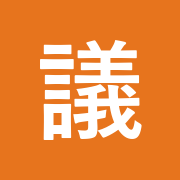
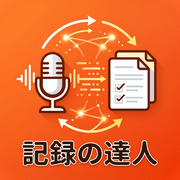
アプリ名を「記録の達人」に変更・アイコンを差し替え

diff --git a/app.js b/app.js
@@ -120,8 +120,8 @@
     var saved = storageGet(API_URL_STORE);
     if (fromLink && validApiUrl(fromLink) && fromLink !== saved) {
       var question = validApiUrl(saved)
-        ? '接続先（会社のgijiroku-app）を切り替えますか？\n\n今の接続先: ' + apiLabel(saved) + '\n新しい接続先: ' + apiLabel(fromLink)
-        : 'このリンクの接続先（会社のgijiroku-app）を使いますか？\n\n接続先: ' + apiLabel(fromLink);
+        ? '接続先（会社の記録の達人）を切り替えますか？\n\n今の接続先: ' + apiLabel(saved) + '\n新しい接続先: ' + apiLabel(fromLink)
+        : 'このリンクの接続先（会社の記録の達人）を使いますか？\n\n接続先: ' + apiLabel(fromLink);
       if (IS_LOCAL || confirm(question + '\n\n会社の導入担当から受け取ったリンクのときだけ「OK」を押してください。心当たりがなければ「キャンセル」を押してください。')) {
         storageSet(API_URL_STORE, fromLink);
         sessionSet(TOKEN_KEY, '');

diff --git a/index.html b/index.html
@@ -3,11 +3,11 @@
 <head>
   <meta charset="utf-8">
   <meta name="viewport" content="width=device-width, initial-scale=1, viewport-fit=cover">
-  <title>gijiroku-app</title>
+  <title>記録の達人</title>
   <meta name="theme-color" content="#E7741D">
   <meta name="apple-mobile-web-app-capable" content="yes">
   <meta name="mobile-web-app-capable" content="yes">
-  <meta name="apple-mobile-web-app-title" content="gijiroku-app">
+  <meta name="apple-mobile-web-app-title" content="記録の達人">
   <meta name="apple-mobile-web-app-status-bar-style" content="default">
   <meta name="referrer" content="no-referrer">
   <link rel="manifest" href="manifest.webmanifest">
@@ -19,7 +19,7 @@
 </head>
 <body>
   <header class="bar">
-    <h1>gijiroku-app</h1>
+    <h1>記録の達人</h1>
     <span id="who" class="who"></span>
     <button id="logout" class="close" hidden>閉じる</button>
   </header>

diff --git a/sw.js b/sw.js
@@ -2,7 +2,7 @@
 // 画面のファイル（HTML・JS・CSS・アイコン）だけを置いておき、電波が弱くてもアプリが開くようにする。
 // 議事録のデータ（GASとのやり取り）は別のサイトあてなので、ここでは扱わない・保存しない。
 // 画面を更新したら VERSION を上げる。
-const VERSION = 'gijiroku-v2';
+const VERSION = 'gijiroku-v3';
 const SHELL = [
   './',
   './index.html',
